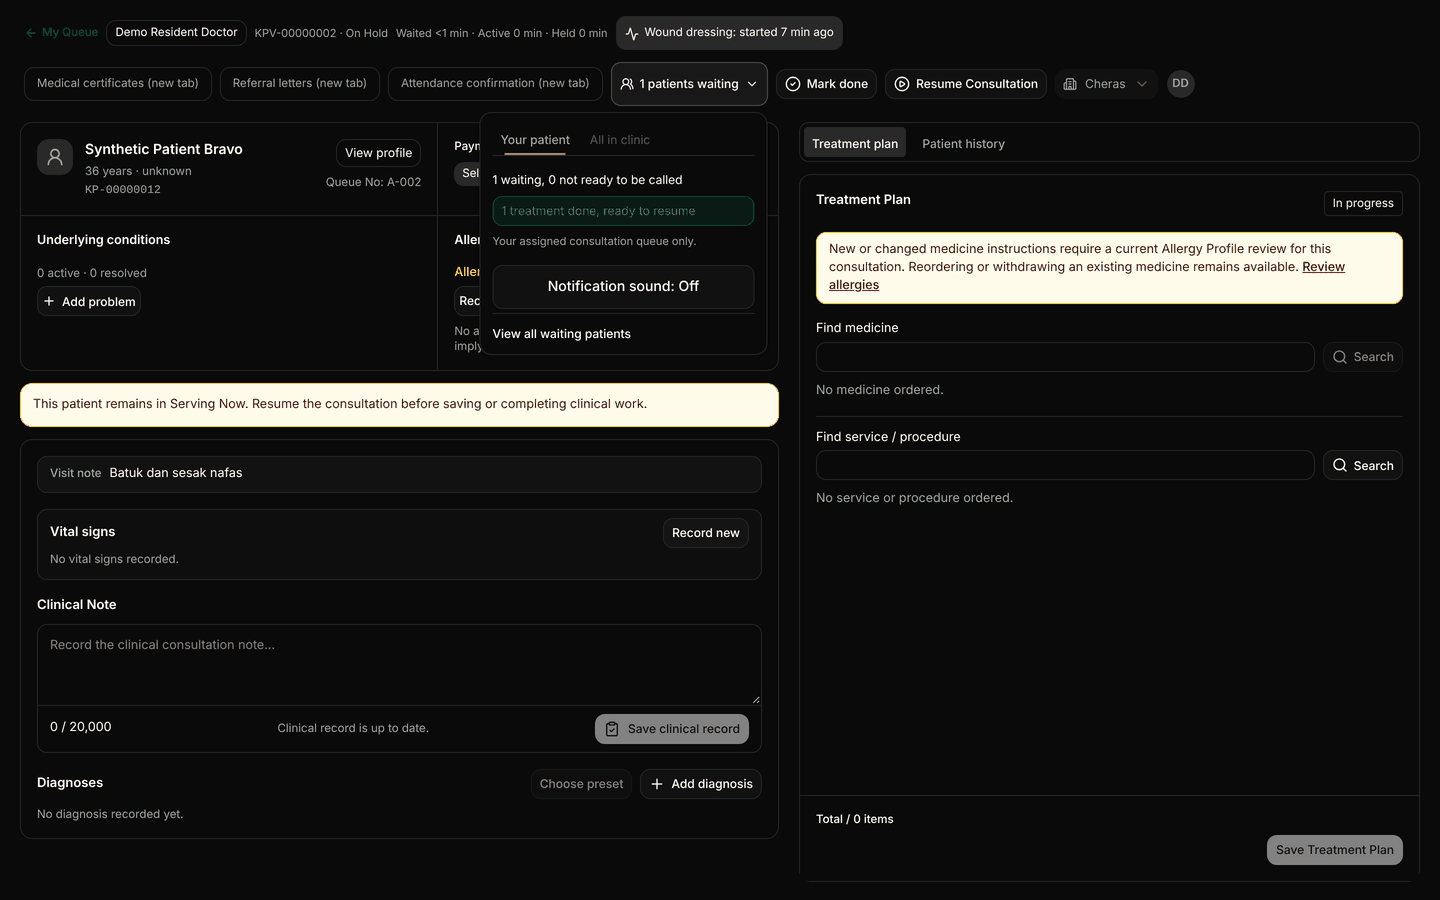
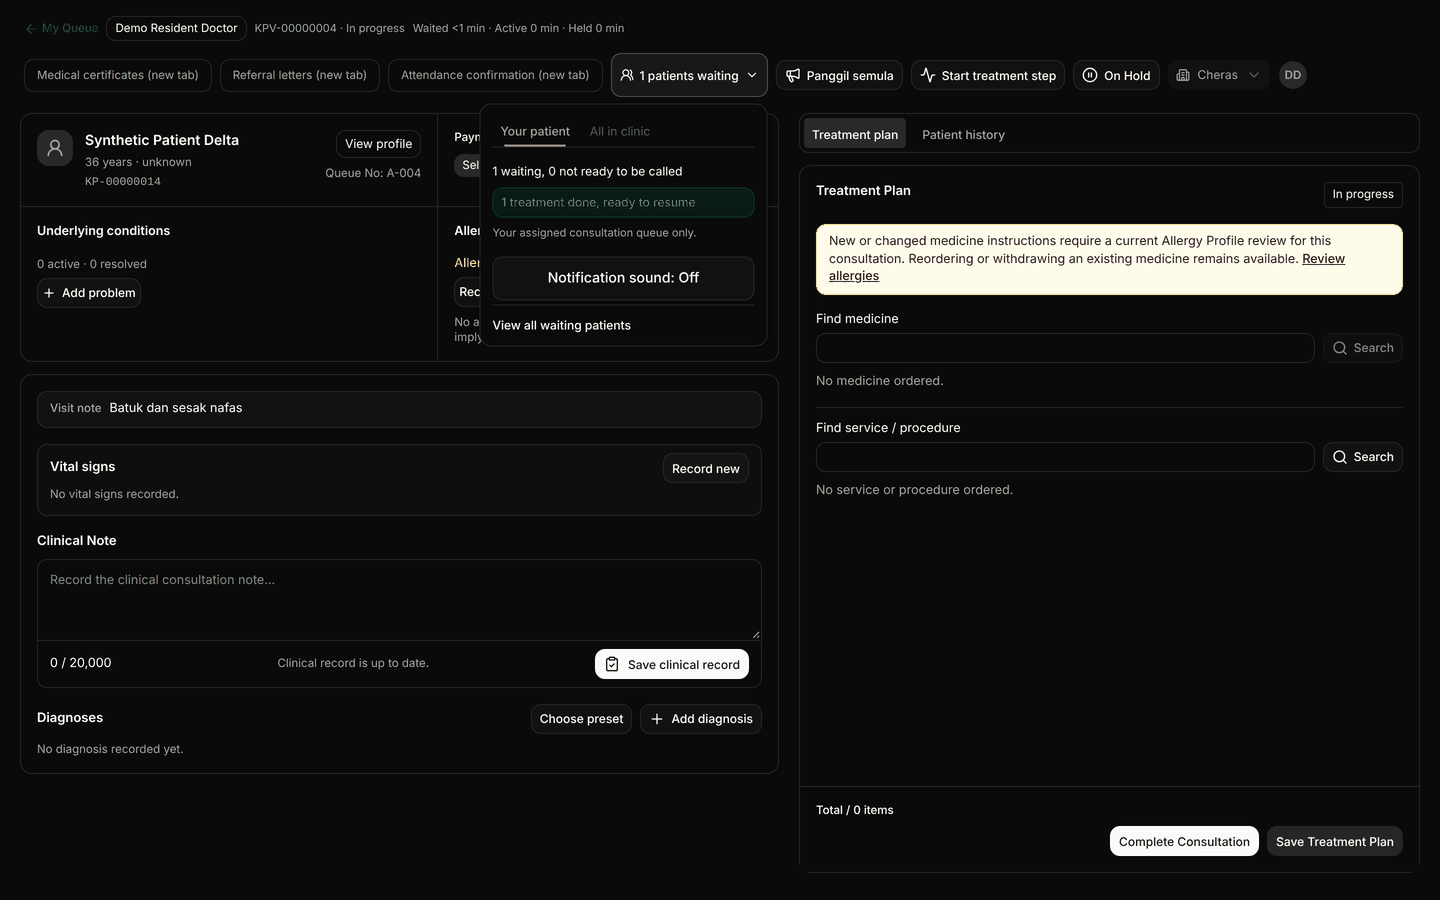
Q-2: collapse "Entered in error?" and focus the dialog's main action
Daniel's final review of #256: the rare cancel path is collapsed behind an
"Entered in error?" disclosure below the description; the started dialog
opens with focus on "Mark done" and the done dialog on Close; "Cancel step"
is a destructive button. A frontend test pins the collapsed default and the
focus targets; refreshed dialog and dropdown screenshots.

Claude-Session: https://claude.ai/code/session_01MHFmnYonysroHahVHHGCan

diff --git a/resources/js/components/queue/TreatmentProgressActions.vue b/resources/js/components/queue/TreatmentProgressActions.vue
@@ -1,7 +1,7 @@
 <script setup lang="ts">
 import { router } from '@inertiajs/vue3';
 import { Activity, CheckCircle2, LoaderCircle, XCircle } from '@lucide/vue';
-import { computed, ref, watch } from 'vue';
+import { computed, nextTick, ref, watch } from 'vue';
 import { Button } from '@/components/ui/button';
 import {
     Dialog,
@@ -34,6 +34,26 @@ const props = defineProps<{
 }>();
 const emit = defineEmits<{ changed: [] }>();
 const open = defineModel<boolean>('open', { default: false });
+// Daniel's review of #256: the rare "entered in error" path stays collapsed until asked for.
+const showCancel = ref(false);
+watch(open, (value) => {
+    if (value) {
+        showCancel.value = false;
+    }
+});
+// Focus the main action: "Mark done" while running, Close once done (the step select when empty).
+const focusMainAction = (event: Event) => {
+    if (!state.value) {
+        return;
+    }
+
+    event.preventDefault();
+    void nextTick(() =>
+        document
+            .querySelector<HTMLElement>('[data-treatment-autofocus]')
+            ?.focus(),
+    );
+};
 const stepCode = ref('');
 const cancelReason = ref('');
 const error = ref('');
@@ -47,6 +67,7 @@ watch(
     () => {
         open.value = false;
         stepCode.value = '';
+        showCancel.value = false;
         cancelReason.value = '';
         error.value = '';
         key = '';
@@ -156,6 +177,7 @@ const submit = (action: 'start' | 'done' | 'cancel') => {
         <DialogContent
             :show-close-button="false"
             class="max-h-[90dvh] overflow-y-auto"
+            @open-auto-focus="focusMainAction"
         >
             <DialogHeader>
                 <DialogTitle>{{
@@ -207,53 +229,71 @@ const submit = (action: 'start' | 'done' | 'cancel') => {
                     >{{ error }}</span
                 >
             </label>
-            <div v-else class="grid gap-2 rounded-md border p-3">
-                <p class="text-sm font-medium">
-                    Cancel this step (entered in error)
-                </p>
-                <label class="grid gap-2 text-sm"
-                    >Reason *
-                    <select
-                        v-model="cancelReason"
-                        required
-                        :aria-invalid="!!error && !cancelReason"
-                        aria-describedby="treatment-progress-error"
-                        class="min-h-11 w-full rounded-md border bg-background px-3 aria-invalid:border-destructive dark:scheme-dark"
-                    >
-                        <option value="">Select a reason</option>
-                        <option
-                            v-for="item in TREATMENT_CANCEL_REASONS"
-                            :key="item[0]"
-                            :value="item[0]"
-                        >
-                            {{ item[1] }}
-                        </option>
-                    </select>
-                    <span
-                        v-if="error"
-                        id="treatment-progress-error"
-                        role="alert"
-                        class="text-sm text-destructive"
-                        >{{ error }}</span
-                    >
-                </label>
+            <div v-else class="grid gap-2">
                 <Button
                     type="button"
-                    variant="link"
-                    class="h-auto min-h-11 justify-start gap-1.5 px-0 text-destructive"
-                    :disabled="busy"
-                    data-testid="treatment-progress-cancel"
-                    @click="submit('cancel')"
+                    variant="ghost"
+                    class="h-auto min-h-11 justify-start px-2 text-sm"
+                    :aria-expanded="showCancel"
+                    aria-controls="treatment-progress-cancel-panel"
+                    data-testid="treatment-progress-cancel-toggle"
+                    @click="showCancel = !showCancel"
+                    >Entered in error?</Button
                 >
-                    <LoaderCircle
-                        v-if="busyAction === 'cancel'"
-                        class="size-4 animate-spin"
-                        aria-hidden="true"
-                    />
-                    {{
-                        busyAction === 'cancel' ? 'Cancelling…' : 'Cancel step'
-                    }}
-                </Button>
+                <div
+                    v-if="showCancel"
+                    id="treatment-progress-cancel-panel"
+                    class="grid gap-2 rounded-md border p-3"
+                >
+                    <p class="text-sm font-medium">
+                        Cancel this step (entered in error)
+                    </p>
+                    <label class="grid gap-2 text-sm"
+                        >Reason *
+                        <select
+                            v-model="cancelReason"
+                            required
+                            :aria-invalid="!!error && !cancelReason"
+                            aria-describedby="treatment-progress-error"
+                            class="min-h-11 w-full rounded-md border bg-background px-3 aria-invalid:border-destructive dark:scheme-dark"
+                        >
+                            <option value="">Select a reason</option>
+                            <option
+                                v-for="item in TREATMENT_CANCEL_REASONS"
+                                :key="item[0]"
+                                :value="item[0]"
+                            >
+                                {{ item[1] }}
+                            </option>
+                        </select>
+                        <span
+                            v-if="error"
+                            id="treatment-progress-error"
+                            role="alert"
+                            class="text-sm text-destructive"
+                            >{{ error }}</span
+                        >
+                    </label>
+                    <Button
+                        type="button"
+                        variant="destructive"
+                        class="min-h-11 gap-1.5"
+                        :disabled="busy"
+                        data-testid="treatment-progress-cancel"
+                        @click="submit('cancel')"
+                    >
+                        <LoaderCircle
+                            v-if="busyAction === 'cancel'"
+                            class="size-4 animate-spin"
+                            aria-hidden="true"
+                        />
+                        {{
+                            busyAction === 'cancel'
+                                ? 'Cancelling…'
+                                : 'Cancel step'
+                        }}
+                    </Button>
+                </div>
             </div>
             <DialogFooter>
                 <Button
@@ -261,6 +301,9 @@ const submit = (action: 'start' | 'done' | 'cancel') => {
                     variant="outline"
                     class="min-h-11"
                     :disabled="busy"
+                    :data-treatment-autofocus="
+                        state === 'done' ? '' : undefined
+                    "
                     @click="open = false"
                     >Close</Button
                 >
@@ -269,6 +312,9 @@ const submit = (action: 'start' | 'done' | 'cancel') => {
                     type="button"
                     class="min-h-11 gap-1.5"
                     :disabled="busy"
+                    :data-treatment-autofocus="
+                        state === 'started' ? '' : undefined
+                    "
                     @click="submit(state === 'started' ? 'done' : 'start')"
                 >
                     <LoaderCircle
